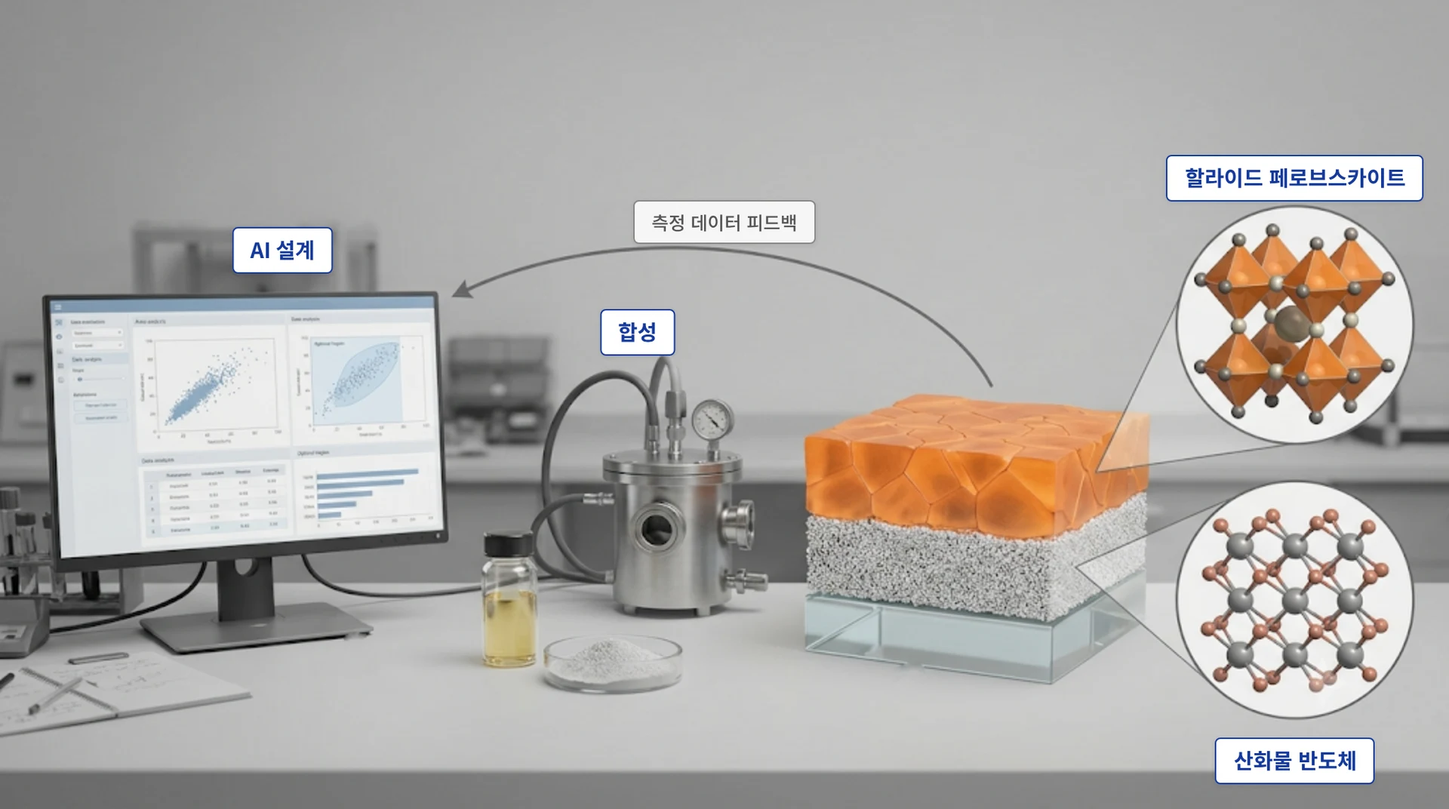
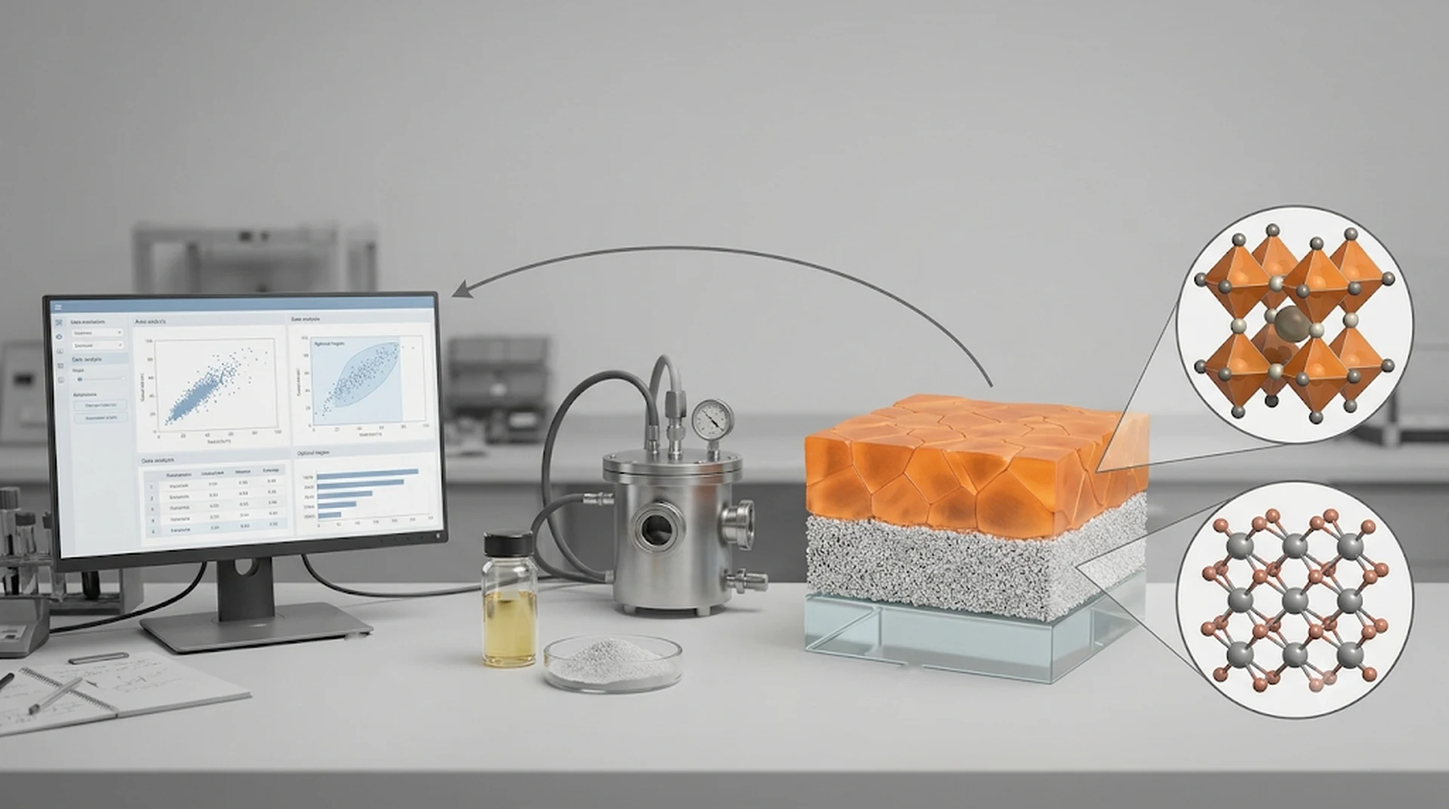
Preview: clean originals with HTML labels for all research figures
Claude-Session: https://claude.ai/code/session_01VQnYcHP4KMgwg4WwjxX8tW

diff --git a/research.html b/research.html
@@ -28,7 +28,7 @@
 </div>
 </header>
 <main>
-<section class="page-head"><div class="wrap"><p class="crumb">Research</p><h1>Research</h1><p>산화물 반도체와 페로브스카이트 반도체 소재의 합성 원리를 규명하고, 이를 고효율·대면적 태양전지, 발광다이오드, 배터리와 하이브리드 에너지 시스템으로 확장해 우주, 건물, 차량, 실내 IoT 등 다양한 분야로의 응용을 지향합니다.</p></div></section><section class="section"><div class="wrap"><figure class="overview"><div class="ov-wrap"><img src="assets/img/research/overview-flow.webp" alt="연구 흐름: 산화물·페로브스카이트 소재, 태양전지, 대면적 플렉서블 모듈, 에너지 저장(배터리), 발광 소자"><span class="ov-l l" style="left:3%;top:90%"><i>1</i><em>산화물 · 페로브스카이트 소재</em></span><span class="ov-l c" style="left:30%;top:61%"><i>2</i><em>태양전지 · 탠덤</em></span><span class="ov-l c" style="left:53.5%;top:60.5%"><i>3</i><em>대면적 플렉서블 모듈</em></span><span class="ov-l c" style="left:68.6%;top:67.5%"><i>4</i><em>에너지 저장 (배터리)</em></span><span class="ov-l c" style="left:84%;top:90%"><i>5</i><em>발광 (LED)</em></span></div><ol class="ov-key"><li>산화물 · 페로브스카이트 소재</li><li>태양전지 · 탠덤</li><li>대면적 플렉서블 모듈</li><li>에너지 저장 (배터리)</li><li>발광 (LED)</li></ol></figure><div class="rblock" id="synthesis"><p class="eyebrow">01</p><h2>Oxide &amp; Hybrid Semiconductor Materials</h2><p class="rko">산화물·하이브리드 반도체 소재</p><p class="lead">산화물 반도체와 페로브스카이트 반도체를 원자 수준에서 설계하고 합성해서, 고성능 에너지 소자의 기반 소재를 만듭니다.</p><ul class="chips"><li>Oxide Nanoparticles</li><li>Oxide Thin Films</li><li>Hybrid Perovskite Materials</li><li>Solution &amp; Vacuum Processes</li><li>Interface Engineering</li></ul><figure class="rfig"><div class="rf-wrap"><img src="assets/img/research/r1.webp" alt="AI 설계, 합성, 산화물 반도체와 할라이드 페로브스카이트 박막, 측정 데이터 피드백으로 이어지는 소재 연구 흐름" loading="lazy"></div></figure><ol class="rsteps"><li><b>소재 설계</b><p>AI로 논문·실험 데이터를 분석해 유망한 조성과 공정 조건을 고르고, 원하는 밴드갭과 에너지 준위에 맞춰 후보를 좁힙니다.</p></li><li><b>합성</b><p>용액 공정과 진공 증착으로 나노입자와 박막을 만듭니다. 실험 결과를 AI가 학습해 다음 합성 조건을 제안합니다.</p></li><li><b>결함·계면 제어</b><p>도핑과 표면 처리로 결함을 줄이고 계면을 맞춥니다. SEM, XRD, PL 데이터는 AI로 빠르게 정리합니다.</p></li><li><b>원리 규명</b><p>합성 메커니즘을 밝히고, 그 데이터를 다시 AI 설계에 넣어 설계, 합성, 분석이 하나의 순환으로 이어지게 합니다.</p></li></ol><figure><img src="assets/img/research/oxide-nanomaterials.webp" alt="산화물 반도체 연구 개요: 소재·공정·소자와 소재 설계 요소(형상, 도핑, 결함, 결정화, 조성, AI 기반 최적화)" loading="lazy"></figure><figure><img src="assets/img/research/oxide-synthesis.webp" alt="산화물 반도체 합성 및 메커니즘 규명: Zn2SnO4, BaSnO3, SnO2, 다양한 나노소재, 과잉 리간드 전략" loading="lazy"></figure></div><div class="rblock" id="applications"><p class="eyebrow">02</p><h2>Perovskite Optoelectronics: Large-Area &amp; Flexible</h2><p class="rko">페로브스카이트 광전소자 (대면적·플렉서블·우주용)</p><p class="lead">페로브스카이트로 태양전지, 탠덤 태양전지, LED를 만들고, 대면적 플렉서블 모듈과 우주용 태양전지까지 확장합니다.</p><ul class="chips"><li>Perovskite Solar Cells</li><li>All-Perovskite Tandem Solar Cells</li><li>Flexible Perovskite Solar Cells</li><li>Large-Area (Flexible) Solar Modules</li><li>Perovskite LEDs</li><li>Solar Cell–LED</li><li>Solar Cell–Battery</li><li>Solar Cell–Supercapacitor</li><li>Solar Cell–Water Splitting</li></ul><figure class="rfig"><div class="rf-wrap"><img src="assets/img/research/r2.webp" alt="AI 소자 설계에서 단위 셀과 LED, 미니 모듈, 대면적 플렉서블 모듈을 거쳐 우주용 태양전지로 이어지는 연구 흐름" loading="lazy"></div></figure><ol class="rsteps"><li><b>AI 소자 설계</b><p>층 구성, 두께, 에너지 준위 정렬과 공정 조건을 AI로 분석해 최적 조건을 찾습니다.</p></li><li><b>단위 셀 · LED</b><p>작은 셀에서 소재와 구조를 검증하고, 같은 소재로 전기를 빛으로 바꾸는 발광 소자도 만듭니다.</p></li><li><b>미니 모듈</b><p>셀을 직렬로 이어 모듈로 만들며 대면적화 기술을 확보합니다.</p></li><li><b>대면적 플렉서블 모듈</b><p>인쇄형 용액 공정으로 플렉서블 기판 위에 최대 900 cm²의 휘는 모듈을 만들고, 솔라 시뮬레이터로 성능을 측정합니다.</p></li><li><b>우주용 태양전지</b><p>가볍고 잘 휘는 페로브스카이트 전지를 위성처럼 무게가 중요한 우주 환경에 맞게 개발합니다.</p></li><li><b>페로브스카이트 탠덤</b><p>밴드갭이 다른 페로브스카이트 두 층을 쌓아, 한 소자로 더 넓은 파장의 빛을 전기로 바꿉니다.</p></li><li><b>3D 페로브스카이트 결정</b><p>꼭짓점을 공유하는 팔면체가 3차원으로 이어진 결정 구조입니다.</p></li></ol><figure><img src="assets/img/research/applications-oxide.webp" alt="산화물 반도체 소재 응용: 태양전지, LED, 태양-연료, 배터리" loading="lazy"></figure><figure><img src="assets/img/research/large-area-modules.webp" alt="단위소자에서 대면적 모듈까지: 30x30 유연 모듈" loading="lazy"></figure><figure><img src="assets/img/research/hybrid-system.webp" alt="태양전지-배터리 및 태양전지-LED 일체형 하이브리드 소자" loading="lazy"></figure></div><div class="rblock" id="waste"><p class="eyebrow">03</p><h2>Sustainable Battery Materials</h2><p class="rko">지속가능 배터리 소재</p><p class="lead">폐타이어에서 되살린 탄소로 배터리 소재를 만들고, 리튬이온 전지와 차세대 아연 수계 전지, 태양전지와 연계한 에너지 자립형 소자로 이어갑니다.</p><ul class="chips"><li>Li-ion Batteries</li><li>Aqueous Zinc Batteries</li><li>Conductive Carbon Black from Waste Tires</li><li>Solar Cell–Battery Hybrids</li></ul><figure class="rfig"><div class="rf-wrap"><img src="assets/img/research/r3.webp" alt="폐타이어 재활용, 열분해 탄소 회수, 재생 탄소 도전재, 전극 제작, 리튬이온·아연 수계 배터리, AI 수명 예측, 태양전지-배터리 연계로 이어지는 순환" loading="lazy"></div></figure><ol class="rsteps"><li><b>폐타이어 재활용</b><p>버려지는 폐타이어를 배터리 소재의 원료로 씁니다.</p></li><li><b>열분해로 탄소 회수</b><p>폐타이어를 열분해해 탄소를 회수하고 정제합니다. 공정 조건과 탄소 특성의 관계는 AI로 분석합니다.</p></li><li><b>재생 탄소 도전재</b><p>회수한 탄소를 전극용 도전재로 만듭니다.</p></li><li><b>전극 제작</b><p>재생 탄소를 금속 포일 위에 코팅해 전극을 만듭니다.</p></li><li><b>리튬이온 배터리</b><p>재생 탄소 전극을 리튬이온 전지에 적용합니다.</p></li><li><b>아연 수계 배터리</b><p>물 기반 전해질을 쓰는 안전하고 값싼 차세대 아연 전지를 개발합니다.</p></li><li><b>AI 수명 예측</b><p>충방전 데이터를 AI가 학습해 수명을 예측하고 열화 원인을 찾아, 그 결과를 소재 공정에 다시 반영합니다.</p></li><li><b>태양전지-배터리 연계</b><p>페로브스카이트 태양전지와 배터리를 묶어, 빛으로 충전하고 저장하는 에너지 자립형 소자를 만듭니다.</p></li><li><b>흑연층 탄소 입자</b><p>동심원 흑연층으로 이루어진 탄소 입자가 사슬처럼 이어진 구조입니다.</p></li><li><b>전극 속 탄소 네트워크</b><p>탄소 입자가 활물질 입자 사이를 그물처럼 이어 전자가 잘 흐르게 합니다.</p></li></ol><figure><img src="assets/img/research/waste-recovery.webp" alt="폐타이어 재활용 기반 도전재와 배터리 소재 연구: 리튬이온, 차세대 아연 수계 배터리, 집전체 계면, 태양전지–배터리 연계 시스템" loading="lazy"></figure></div></div></section>
+<section class="page-head"><div class="wrap"><p class="crumb">Research</p><h1>Research</h1><p>산화물 반도체와 페로브스카이트 반도체 소재의 합성 원리를 규명하고, 이를 고효율·대면적 태양전지, 발광다이오드, 배터리와 하이브리드 에너지 시스템으로 확장해 우주, 건물, 차량, 실내 IoT 등 다양한 분야로의 응용을 지향합니다.</p></div></section><section class="section"><div class="wrap"><figure class="overview"><div class="ov-wrap"><img src="assets/img/research/overview-flow.webp" alt="연구 흐름: 산화물·페로브스카이트 소재, 태양전지, 대면적 플렉서블 모듈, 에너지 저장(배터리), 발광 소자"><span class="ov-l l" style="left:3%;top:90%"><i>1</i><em>산화물 · 페로브스카이트 소재</em></span><span class="ov-l c" style="left:30%;top:61%"><i>2</i><em>태양전지 · 탠덤</em></span><span class="ov-l c" style="left:53.5%;top:60.5%"><i>3</i><em>대면적 플렉서블 모듈</em></span><span class="ov-l c" style="left:68.6%;top:67.5%"><i>4</i><em>에너지 저장 (배터리)</em></span><span class="ov-l c" style="left:84%;top:90%"><i>5</i><em>발광 (LED)</em></span></div><ol class="ov-key"><li>산화물 · 페로브스카이트 소재</li><li>태양전지 · 탠덤</li><li>대면적 플렉서블 모듈</li><li>에너지 저장 (배터리)</li><li>발광 (LED)</li></ol></figure><div class="rblock" id="synthesis"><p class="eyebrow">01</p><h2>Oxide &amp; Hybrid Semiconductor Materials</h2><p class="rko">산화물·하이브리드 반도체 소재</p><p class="lead">산화물 반도체와 페로브스카이트 반도체를 원자 수준에서 설계하고 합성해서, 고성능 에너지 소자의 기반 소재를 만듭니다.</p><ul class="chips"><li>Oxide Nanoparticles</li><li>Oxide Thin Films</li><li>Hybrid Perovskite Materials</li><li>Solution &amp; Vacuum Processes</li><li>Interface Engineering</li></ul><figure class="rfig"><div class="rf-wrap"><img src="assets/img/research/r1.webp" alt="AI 설계, 합성, 산화물 반도체와 할라이드 페로브스카이트 박막, 측정 데이터 피드백으로 이어지는 소재 연구 흐름" loading="lazy"><svg class="rf-svg" viewBox="0 0 100 100" preserveAspectRatio="none" aria-hidden="true"><line x1="19.5" y1="31" x2="19.5" y2="37.5"/><line x1="44" y1="41" x2="44.5" y2="50"/><line x1="89.4" y1="22" x2="89.4" y2="26.5"/><line x1="89.4" y1="94" x2="89.4" y2="90.5"/></svg><span class="rf-dot" style="left:19.5%;top:37.5%"></span><span class="rf-dot" style="left:44.5%;top:50%"></span><span class="rf-dot" style="left:89.4%;top:26.5%"></span><span class="rf-dot" style="left:89.4%;top:90.5%"></span><span class="rf-l" tabindex="0" style="left:19.5%;top:31%"><b>AI 설계</b><span class="rf-tip">AI로 데이터를 분석해 유망한 조성과 공정 조건을 고릅니다.</span></span><span class="rf-l" tabindex="0" style="left:44%;top:41%"><b>합성</b><span class="rf-tip">용액 공정과 진공 증착으로 나노입자와 박막을 만듭니다.</span></span><span class="rf-l" tabindex="0" style="left:89.4%;top:22%"><b>할라이드 페로브스카이트</b><span class="rf-tip">꼭짓점을 공유하는 팔면체가 3차원으로 이어진 결정 구조입니다.</span></span><span class="rf-l" tabindex="0" style="left:89.4%;top:94%"><b>산화물 반도체</b><span class="rf-tip">금속과 산소로 이루어진 산화물 반도체 결정 구조입니다.</span></span><span class="rf-l" tabindex="0" style="left:50%;top:27.5%"><b>측정 데이터 피드백</b><span class="rf-tip">분석 데이터를 다시 AI 설계에 넣어 설계, 합성, 분석을 하나의 순환으로 잇습니다.</span></span><span class="rf-nums"><span class="rf-n" style="left:19.5%;top:37.5%">1</span><span class="rf-n" style="left:44.5%;top:50%">2</span><span class="rf-n" style="left:89.4%;top:26.5%">3</span><span class="rf-n" style="left:89.4%;top:90.5%">4</span><span class="rf-n" style="left:50%;top:27.5%">5</span></span></div><ol class="rf-key"><li><b>AI 설계</b> AI로 데이터를 분석해 유망한 조성과 공정 조건을 고릅니다.</li><li><b>합성</b> 용액 공정과 진공 증착으로 나노입자와 박막을 만듭니다.</li><li><b>할라이드 페로브스카이트</b> 꼭짓점을 공유하는 팔면체가 3차원으로 이어진 결정 구조입니다.</li><li><b>산화물 반도체</b> 금속과 산소로 이루어진 산화물 반도체 결정 구조입니다.</li><li><b>측정 데이터 피드백</b> 분석 데이터를 다시 AI 설계에 넣어 설계, 합성, 분석을 하나의 순환으로 잇습니다.</li></ol></figure><ol class="rsteps"><li><b>소재 설계</b><p>AI로 논문·실험 데이터를 분석해 유망한 조성과 공정 조건을 고르고, 원하는 밴드갭과 에너지 준위에 맞춰 후보를 좁힙니다.</p></li><li><b>합성</b><p>용액 공정과 진공 증착으로 나노입자와 박막을 만듭니다. 실험 결과를 AI가 학습해 다음 합성 조건을 제안합니다.</p></li><li><b>결함·계면 제어</b><p>도핑과 표면 처리로 결함을 줄이고 계면을 맞춥니다. SEM, XRD, PL 데이터는 AI로 빠르게 정리합니다.</p></li><li><b>원리 규명</b><p>합성 메커니즘을 밝히고, 그 데이터를 다시 AI 설계에 넣어 설계, 합성, 분석이 하나의 순환으로 이어지게 합니다.</p></li></ol><figure><img src="assets/img/research/oxide-nanomaterials.webp" alt="산화물 반도체 연구 개요: 소재·공정·소자와 소재 설계 요소(형상, 도핑, 결함, 결정화, 조성, AI 기반 최적화)" loading="lazy"></figure><figure><img src="assets/img/research/oxide-synthesis.webp" alt="산화물 반도체 합성 및 메커니즘 규명: Zn2SnO4, BaSnO3, SnO2, 다양한 나노소재, 과잉 리간드 전략" loading="lazy"></figure></div><div class="rblock" id="applications"><p class="eyebrow">02</p><h2>Perovskite Optoelectronics: Large-Area &amp; Flexible</h2><p class="rko">페로브스카이트 광전소자 (대면적·플렉서블·우주용)</p><p class="lead">페로브스카이트로 태양전지, 탠덤 태양전지, LED를 만들고, 대면적 플렉서블 모듈과 우주용 태양전지까지 확장합니다.</p><ul class="chips"><li>Perovskite Solar Cells</li><li>All-Perovskite Tandem Solar Cells</li><li>Flexible Perovskite Solar Cells</li><li>Large-Area (Flexible) Solar Modules</li><li>Perovskite LEDs</li><li>Solar Cell–LED</li><li>Solar Cell–Battery</li><li>Solar Cell–Supercapacitor</li><li>Solar Cell–Water Splitting</li></ul><figure class="rfig"><div class="rf-wrap"><img src="assets/img/research/r2.webp" alt="AI 소자 설계에서 단위 셀과 LED, 미니 모듈, 대면적 플렉서블 모듈을 거쳐 우주용 태양전지로 이어지는 연구 흐름" loading="lazy"><svg class="rf-svg" viewBox="0 0 100 100" preserveAspectRatio="none" aria-hidden="true"><line x1="10.5" y1="46.6" x2="10.5" y2="51.1"/><line x1="21.9" y1="58.1" x2="22.5" y2="66.6"/><line x1="32.4" y1="49.6" x2="28.9" y2="61.5"/><line x1="40.4" y1="42.6" x2="39.2" y2="51.8"/><line x1="69.9" y1="29.9" x2="72.1" y2="38.9"/></svg><span class="rf-dot" style="left:10.5%;top:51.1%"></span><span class="rf-dot" style="left:22.5%;top:66.6%"></span><span class="rf-dot" style="left:28.9%;top:61.5%"></span><span class="rf-dot" style="left:39.2%;top:51.8%"></span><span class="rf-dot" style="left:72.1%;top:38.9%"></span><span class="rf-l" tabindex="0" style="left:10.5%;top:46.6%"><b>AI 소자 설계</b><span class="rf-tip">층 구성, 두께, 에너지 준위 정렬과 공정 조건을 AI로 분석해 최적 조건을 찾습니다.</span></span><span class="rf-l" tabindex="0" style="left:21.9%;top:58.1%"><b>단위 셀 · LED</b><span class="rf-tip">작은 셀에서 소재와 구조를 검증하고, 같은 소재로 전기를 빛으로 바꾸는 발광 소자도 만듭니다.</span></span><span class="rf-l" tabindex="0" style="left:32.4%;top:49.6%"><b>미니 모듈</b><span class="rf-tip">셀을 직렬로 이어 모듈로 만들며 대면적화 기술을 확보합니다.</span></span><span class="rf-l" tabindex="0" style="left:40.4%;top:42.6%"><b>대면적 플렉서블 모듈</b><span class="rf-tip">인쇄형 용액 공정으로 플렉서블 기판 위에 최대 900 cm²의 휘는 모듈을 만들고, 솔라 시뮬레이터로 성능을 측정합니다.</span></span><span class="rf-l" tabindex="0" style="left:69.9%;top:29.9%"><b>우주용 태양전지</b><span class="rf-tip">가볍고 잘 휘는 페로브스카이트 전지를 위성처럼 무게가 중요한 우주 환경에 맞게 개발합니다.</span></span><span class="rf-l" tabindex="0" style="left:89.7%;top:35.8%"><b>페로브스카이트 탠덤</b><span class="rf-tip">밴드갭이 다른 페로브스카이트 두 층을 쌓아, 한 소자로 더 넓은 파장의 빛을 전기로 바꿉니다.</span></span><span class="rf-l" tabindex="0" style="left:89.7%;top:67.3%"><b>3D 페로브스카이트 결정</b><span class="rf-tip">꼭짓점을 공유하는 팔면체가 3차원으로 이어진 결정 구조입니다.</span></span><span class="rf-nums"><span class="rf-n" style="left:10.5%;top:51.1%">1</span><span class="rf-n" style="left:22.5%;top:66.6%">2</span><span class="rf-n" style="left:28.9%;top:61.5%">3</span><span class="rf-n" style="left:39.2%;top:51.8%">4</span><span class="rf-n" style="left:72.1%;top:38.9%">5</span><span class="rf-n" style="left:89.7%;top:35.8%">6</span><span class="rf-n" style="left:89.7%;top:67.3%">7</span></span></div></figure><ol class="rsteps"><li><b>AI 소자 설계</b><p>층 구성, 두께, 에너지 준위 정렬과 공정 조건을 AI로 분석해 최적 조건을 찾습니다.</p></li><li><b>단위 셀 · LED</b><p>작은 셀에서 소재와 구조를 검증하고, 같은 소재로 전기를 빛으로 바꾸는 발광 소자도 만듭니다.</p></li><li><b>미니 모듈</b><p>셀을 직렬로 이어 모듈로 만들며 대면적화 기술을 확보합니다.</p></li><li><b>대면적 플렉서블 모듈</b><p>인쇄형 용액 공정으로 플렉서블 기판 위에 최대 900 cm²의 휘는 모듈을 만들고, 솔라 시뮬레이터로 성능을 측정합니다.</p></li><li><b>우주용 태양전지</b><p>가볍고 잘 휘는 페로브스카이트 전지를 위성처럼 무게가 중요한 우주 환경에 맞게 개발합니다.</p></li><li><b>페로브스카이트 탠덤</b><p>밴드갭이 다른 페로브스카이트 두 층을 쌓아, 한 소자로 더 넓은 파장의 빛을 전기로 바꿉니다.</p></li><li><b>3D 페로브스카이트 결정</b><p>꼭짓점을 공유하는 팔면체가 3차원으로 이어진 결정 구조입니다.</p></li></ol><figure><img src="assets/img/research/applications-oxide.webp" alt="산화물 반도체 소재 응용: 태양전지, LED, 태양-연료, 배터리" loading="lazy"></figure><figure><img src="assets/img/research/large-area-modules.webp" alt="단위소자에서 대면적 모듈까지: 30x30 유연 모듈" loading="lazy"></figure><figure><img src="assets/img/research/hybrid-system.webp" alt="태양전지-배터리 및 태양전지-LED 일체형 하이브리드 소자" loading="lazy"></figure></div><div class="rblock" id="waste"><p class="eyebrow">03</p><h2>Sustainable Battery Materials</h2><p class="rko">지속가능 배터리 소재</p><p class="lead">폐타이어에서 되살린 탄소로 배터리 소재를 만들고, 리튬이온 전지와 차세대 아연 수계 전지, 태양전지와 연계한 에너지 자립형 소자로 이어갑니다.</p><ul class="chips"><li>Li-ion Batteries</li><li>Aqueous Zinc Batteries</li><li>Conductive Carbon Black from Waste Tires</li><li>Solar Cell–Battery Hybrids</li></ul><figure class="rfig"><div class="rf-wrap"><img src="assets/img/research/r3.webp" alt="폐타이어 재활용, 열분해 탄소 회수, 재생 탄소 도전재, 전극 제작, 리튬이온·아연 수계 배터리, AI 수명 예측, 태양전지-배터리 연계로 이어지는 순환" loading="lazy"><svg class="rf-svg" viewBox="0 0 100 100" preserveAspectRatio="none" aria-hidden="true"><line x1="37.3" y1="90.4" x2="37.3" y2="85.2"/><line x1="25.2" y1="44.5" x2="26.4" y2="48.7"/><line x1="33.6" y1="30.0" x2="33.6" y2="34.6"/><line x1="50.9" y1="25.0" x2="50.9" y2="29.9"/><line x1="73.0" y1="69.5" x2="70.3" y2="61.2"/><line x1="66.0" y1="21.9" x2="65.6" y2="27.7"/><line x1="43.9" y1="60.5" x2="51.8" y2="62.6"/><line x1="31.8" y1="11.1" x2="20.2" y2="13.1"/></svg><span class="rf-dot" style="left:37.3%;top:85.2%"></span><span class="rf-dot" style="left:26.4%;top:48.7%"></span><span class="rf-dot" style="left:33.6%;top:34.6%"></span><span class="rf-dot" style="left:50.9%;top:29.9%"></span><span class="rf-dot" style="left:70.3%;top:61.2%"></span><span class="rf-dot" style="left:65.6%;top:27.7%"></span><span class="rf-dot" style="left:51.8%;top:62.6%"></span><span class="rf-dot" style="left:20.2%;top:13.1%"></span><span class="rf-l" tabindex="0" style="left:37.3%;top:90.4%"><b>폐타이어 재활용</b><span class="rf-tip">버려지는 폐타이어를 배터리 소재의 원료로 씁니다.</span></span><span class="rf-l" tabindex="0" style="left:25.2%;top:44.5%"><b>열분해로 탄소 회수</b><span class="rf-tip">폐타이어를 열분해해 탄소를 회수하고 정제합니다. 공정 조건과 탄소 특성의 관계는 AI로 분석합니다.</span></span><span class="rf-l" tabindex="0" style="left:33.6%;top:30.0%"><b>재생 탄소 도전재</b><span class="rf-tip">회수한 탄소를 전극용 도전재로 만듭니다.</span></span><span class="rf-l" tabindex="0" style="left:50.9%;top:25.0%"><b>전극 제작</b><span class="rf-tip">재생 탄소를 금속 포일 위에 코팅해 전극을 만듭니다.</span></span><span class="rf-l" tabindex="0" style="left:73.0%;top:69.5%"><b>리튬이온 배터리</b><span class="rf-tip">재생 탄소 전극을 리튬이온 전지에 적용합니다.</span></span><span class="rf-l" tabindex="0" style="left:66.0%;top:21.9%"><b>아연 수계 배터리</b><span class="rf-tip">물 기반 전해질을 쓰는 안전하고 값싼 차세대 아연 전지를 개발합니다.</span></span><span class="rf-l" tabindex="0" style="left:43.9%;top:60.5%"><b>AI 수명 예측</b><span class="rf-tip">충방전 데이터를 AI가 학습해 수명을 예측하고 열화 원인을 찾아, 그 결과를 소재 공정에 다시 반영합니다.</span></span><span class="rf-l" tabindex="0" style="left:31.8%;top:11.1%"><b>태양전지-배터리 연계</b><span class="rf-tip">페로브스카이트 태양전지와 배터리를 묶어, 빛으로 충전하고 저장하는 에너지 자립형 소자를 만듭니다.</span></span><span class="rf-l" tabindex="0" style="left:87.5%;top:49.0%"><b>흑연층 탄소 입자</b><span class="rf-tip">동심원 흑연층으로 이루어진 탄소 입자가 사슬처럼 이어진 구조입니다.</span></span><span class="rf-l" tabindex="0" style="left:87.5%;top:95.3%"><b>전극 속 탄소 네트워크</b><span class="rf-tip">탄소 입자가 활물질 입자 사이를 그물처럼 이어 전자가 잘 흐르게 합니다.</span></span><span class="rf-nums"><span class="rf-n" style="left:37.3%;top:85.2%">1</span><span class="rf-n" style="left:26.4%;top:48.7%">2</span><span class="rf-n" style="left:33.6%;top:34.6%">3</span><span class="rf-n" style="left:50.9%;top:29.9%">4</span><span class="rf-n" style="left:70.3%;top:61.2%">5</span><span class="rf-n" style="left:65.6%;top:27.7%">6</span><span class="rf-n" style="left:51.8%;top:62.6%">7</span><span class="rf-n" style="left:20.2%;top:13.1%">8</span><span class="rf-n" style="left:87.5%;top:49.0%">9</span><span class="rf-n" style="left:87.5%;top:95.3%">10</span></span></div></figure><ol class="rsteps"><li><b>폐타이어 재활용</b><p>버려지는 폐타이어를 배터리 소재의 원료로 씁니다.</p></li><li><b>열분해로 탄소 회수</b><p>폐타이어를 열분해해 탄소를 회수하고 정제합니다. 공정 조건과 탄소 특성의 관계는 AI로 분석합니다.</p></li><li><b>재생 탄소 도전재</b><p>회수한 탄소를 전극용 도전재로 만듭니다.</p></li><li><b>전극 제작</b><p>재생 탄소를 금속 포일 위에 코팅해 전극을 만듭니다.</p></li><li><b>리튬이온 배터리</b><p>재생 탄소 전극을 리튬이온 전지에 적용합니다.</p></li><li><b>아연 수계 배터리</b><p>물 기반 전해질을 쓰는 안전하고 값싼 차세대 아연 전지를 개발합니다.</p></li><li><b>AI 수명 예측</b><p>충방전 데이터를 AI가 학습해 수명을 예측하고 열화 원인을 찾아, 그 결과를 소재 공정에 다시 반영합니다.</p></li><li><b>태양전지-배터리 연계</b><p>페로브스카이트 태양전지와 배터리를 묶어, 빛으로 충전하고 저장하는 에너지 자립형 소자를 만듭니다.</p></li><li><b>흑연층 탄소 입자</b><p>동심원 흑연층으로 이루어진 탄소 입자가 사슬처럼 이어진 구조입니다.</p></li><li><b>전극 속 탄소 네트워크</b><p>탄소 입자가 활물질 입자 사이를 그물처럼 이어 전자가 잘 흐르게 합니다.</p></li></ol><figure><img src="assets/img/research/waste-recovery.webp" alt="폐타이어 재활용 기반 도전재와 배터리 소재 연구: 리튬이온, 차세대 아연 수계 배터리, 집전체 계면, 태양전지–배터리 연계 시스템" loading="lazy"></figure></div></div></section>
 </main>
 <footer class="site-footer">
 <div class="wrap top">
